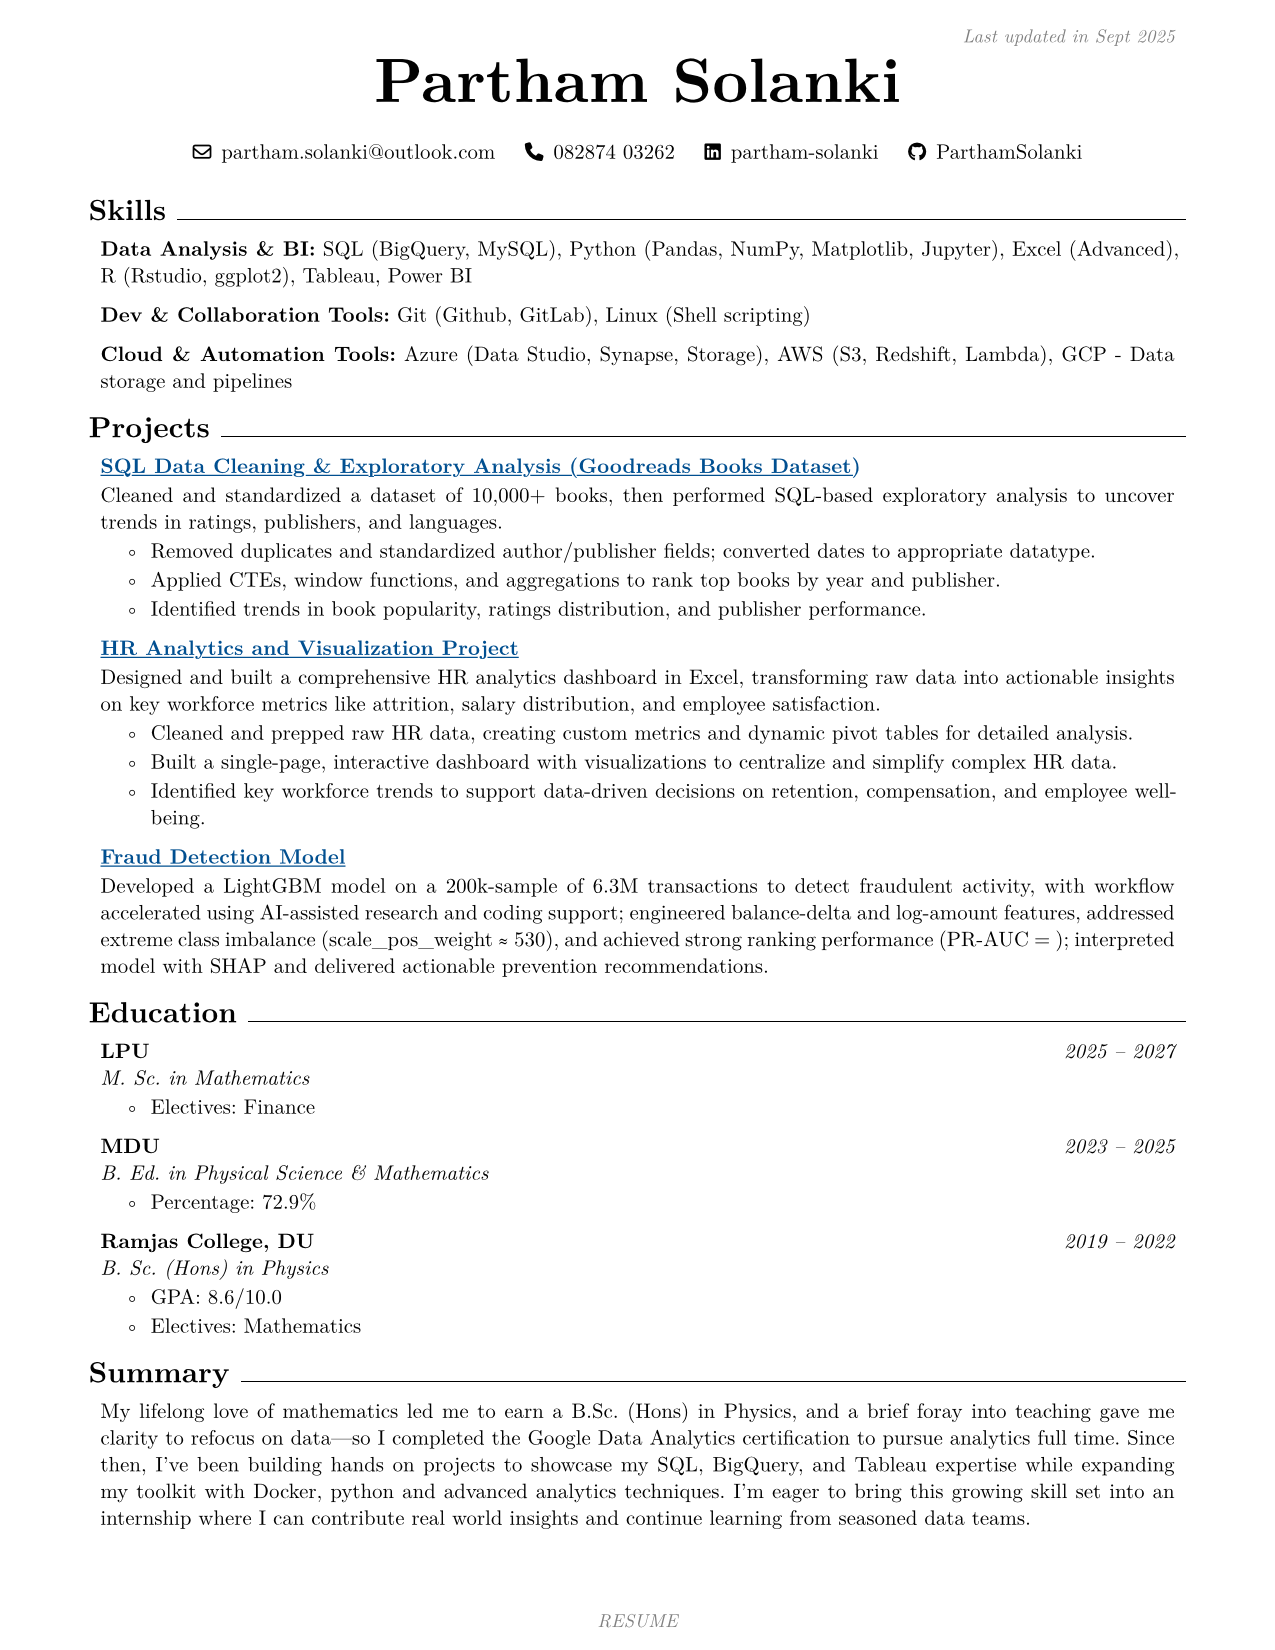
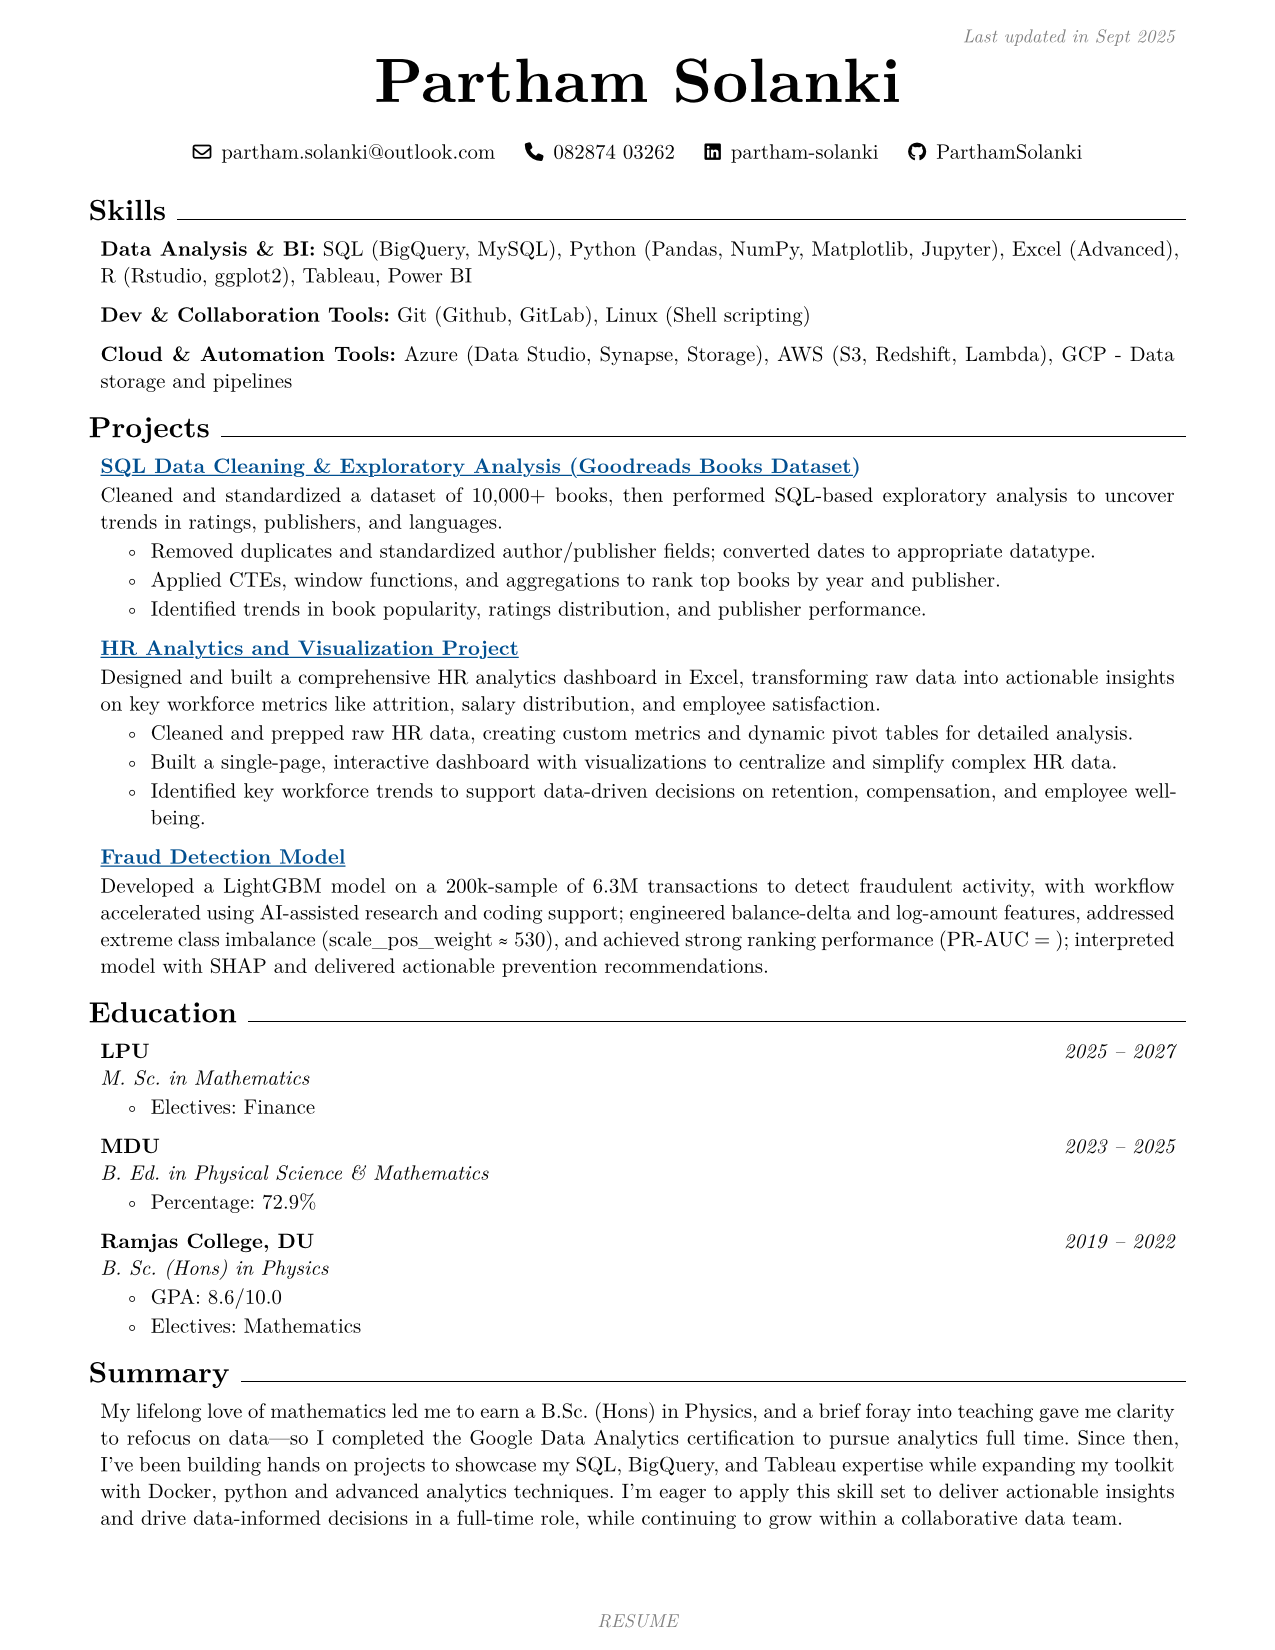
Rendered CV

Changed region(s): [[0.0612, 0.8345, 0.9176, 0.9273]]

diff --git a/Resume/RenderCV/rendercv_output/Partham_Solanki_CV.html b/Resume/RenderCV/rendercv_output/Partham_Solanki_CV.html
@@ -84,7 +84,7 @@
         <li>Electives: Mathematics</li>
         </ul>
         <h1>Summary</h1>
-        <p>My lifelong love of mathematics led me to earn a B.Sc. (Hons) in Physics, and a brief foray into teaching gave me clarity to refocus on data—so I completed the Google Data Analytics certification to pursue analytics full time. Since then, I’ve been building hands on projects to showcase my SQL, BigQuery, and Tableau expertise while expanding my toolkit with Docker, python and advanced analytics techniques. I’m eager to bring this growing skill set into an internship where I can contribute real world insights and continue learning from seasoned data teams.</p>
+        <p>My lifelong love of mathematics led me to earn a B.Sc. (Hons) in Physics, and a brief foray into teaching gave me clarity to refocus on data—so I completed the Google Data Analytics certification to pursue analytics full time. Since then, I’ve been building hands on projects to showcase my SQL, BigQuery, and Tableau expertise while expanding my toolkit with Docker, python and advanced analytics techniques. I’m eager to apply this skill set to deliver actionable insights and drive data-informed decisions in a full-time role, while continuing to grow within a collaborative data team.</p>
     </article>
 </body>
 

diff --git a/Resume/RenderCV/rendercv_output/Partham_Solanki_CV.md b/Resume/RenderCV/rendercv_output/Partham_Solanki_CV.md
@@ -48,5 +48,5 @@
 
 # Summary
 
-My lifelong love of mathematics led me to earn a B.Sc. (Hons) in Physics, and a brief foray into teaching gave me clarity to refocus on data—so I completed the Google Data Analytics certification to pursue analytics full time. Since then, I’ve been building hands on projects to showcase my SQL, BigQuery, and Tableau expertise while expanding my toolkit with Docker, python and advanced analytics techniques. I’m eager to bring this growing skill set into an internship where I can contribute real world insights and continue learning from seasoned data teams.
+My lifelong love of mathematics led me to earn a B.Sc. (Hons) in Physics, and a brief foray into teaching gave me clarity to refocus on data—so I completed the Google Data Analytics certification to pursue analytics full time. Since then, I’ve been building hands on projects to showcase my SQL, BigQuery, and Tableau expertise while expanding my toolkit with Docker, python and advanced analytics techniques. I’m eager to apply this skill set to deliver actionable insights and drive data-informed decisions in a full-time role, while continuing to grow within a collaborative data team.
 
